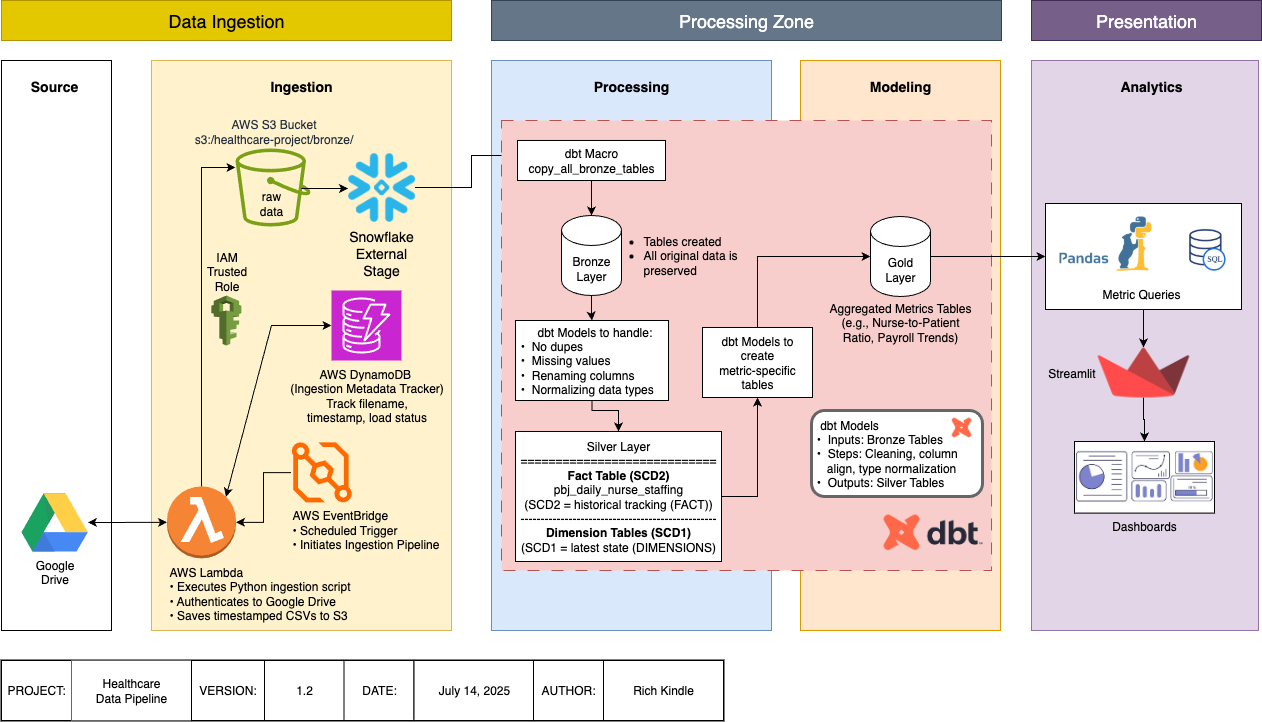
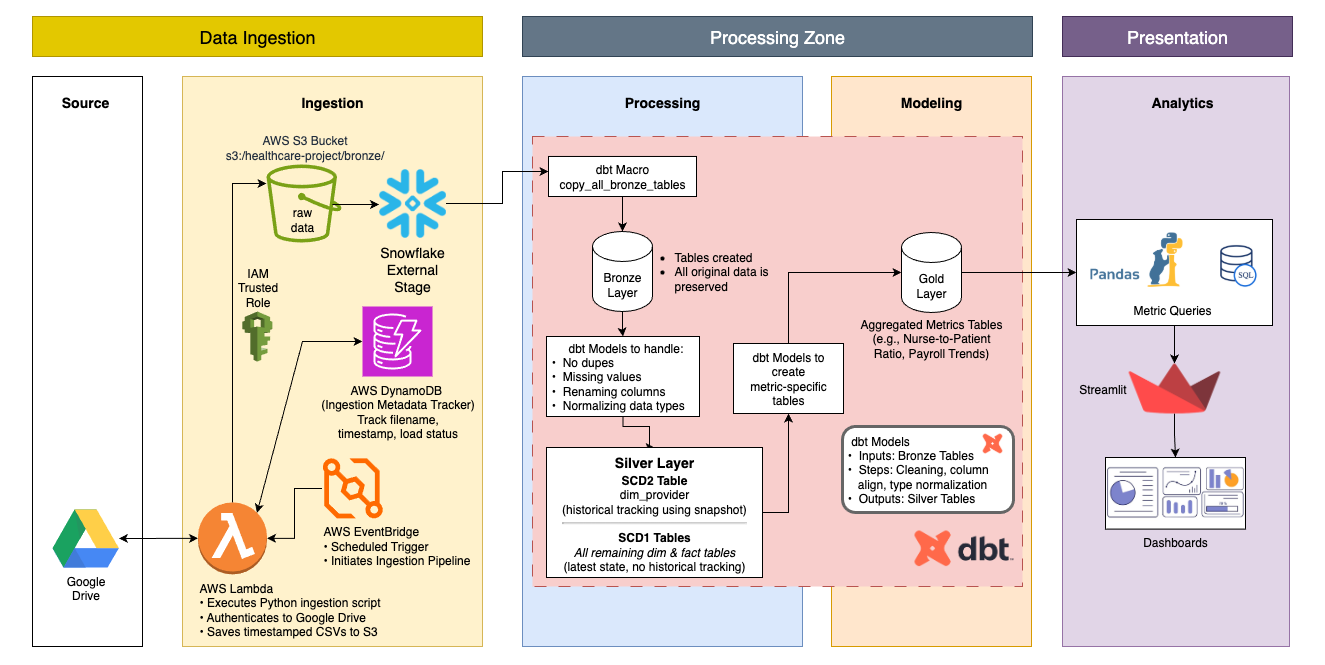
Final modifications of architecture diagram; Added comments to the Lambda script

diff --git a/ingestion/Lambda/rlk-healthcare-lambda-ingestion-script.py b/ingestion/Lambda/rlk-healthcare-lambda-ingestion-script.py
@@ -100,17 +100,6 @@ def lambda_handler(event, context):
                     print(f"Error uploading file '{file_name}' to S3: {e}")
                     continue
 
-            # # Update DynamoDB
-            # try:
-            #     table.put_item(Item={
-            #         'filename': file_name,
-            #         'timestamp': timestamp,
-            #         'status': 'uploaded'
-            #     })
-            #     print(f"File '{file_name}' status updated in DynamoDB.")
-            # except Exception as e:
-            #     print(f"Error updating DynamoDB: {e}")
-            #     continue
     except Exception as e:
         print(f"Error processing files: {e}")
         return {
